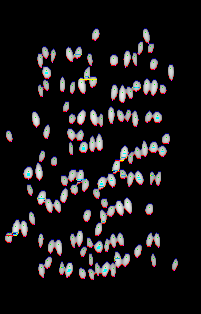
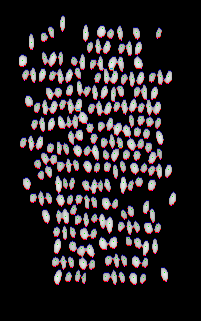
21.07 | 1

diff --git a/FindEggApplication/HeightMap.h b/FindEggApplication/HeightMap.h
@@ -6,8 +6,8 @@ using namespace System::Collections::Generic;
 ref class HeightMap
 {
 public:
-	int count = 1, iteration, initIter, col, findCol = 0, idSensors = 0, N = 3, downPerc = 10;
-	float update, width, distanceToConv, noise, entryThreshold = 0.07595, loweringThreshold = 0.06855;
+	int count = 1, iteration, initIter, col, findCol = 0, idSensors = 0, N = 3, downPerc = 1;
+	float update, width, distanceToConv, noise, entryThreshold = 0.07225, loweringThreshold = 0.06855;
 	void setEntryThreshold(float val);
 	void setLoweringThreshold(float val);
 	List<List<float>^>^ vector;

diff --git a/FindEggApplication/MyForm.h b/FindEggApplication/MyForm.h
@@ -1082,7 +1082,7 @@ private: System::Windows::Forms::CheckBox^ checkBox3;
 
 		eggSize->Text = eggSizeData.ToString();
 
-		float valEnt = 50;
+		float valEnt = 75;
 		textBoxPercent->Text = valEnt.ToString();
 
 
